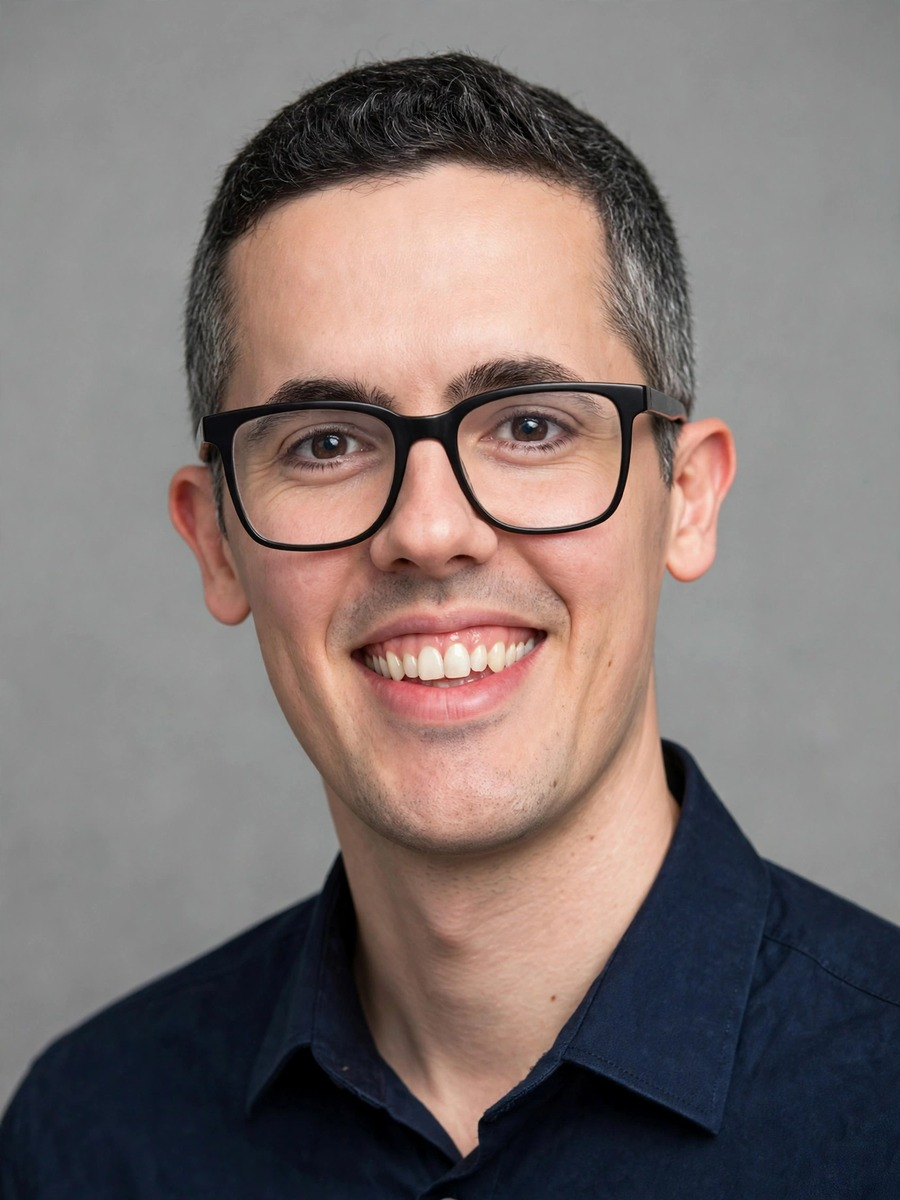
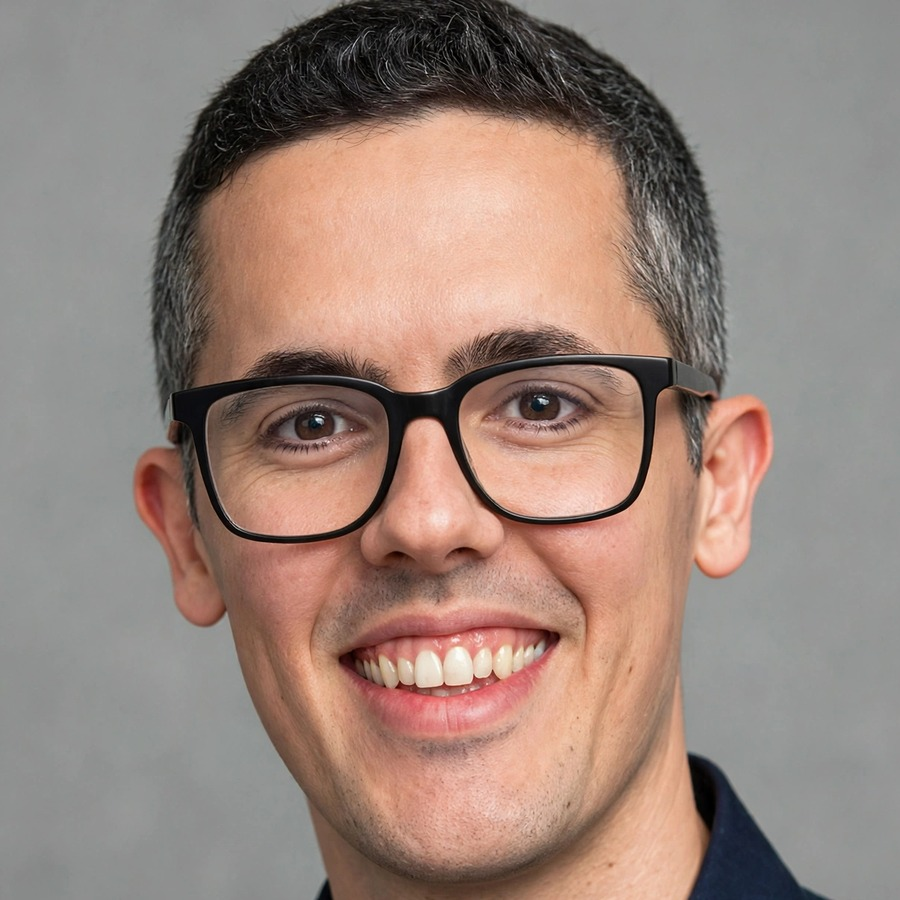
Hero: portrait top-right opposite h1 on mobile; tanned face-centered headshot
- Mobile hero now places the circular portrait top-right beside the
  eyebrow/h1, with description and CTA below (was: portrait under CTA)
- Desktop keeps the side-by-side layout via grid (fixed row-span bug)
- New headshot: subtle summer tan, salt-and-pepper sides, face-centered
  square crop with headroom (no more clipped hair or neck focus)
- OG share card regenerated with the new portrait

diff --git a/style.css b/style.css
@@ -22,7 +22,7 @@ section{scroll-margin-top:5rem}
 .hero-desc{font-size:.98rem;line-height:1.55;color:var(--text)}.hero-location{margin-top:.5rem;color:var(--muted);font-size:.92rem}
 .button-link{display:inline-flex;align-items:center;justify-content:center;min-height:44px;margin-top:1rem;padding:.65rem 1rem;border-radius:.45rem;background:var(--accent-strong);color:var(--on-accent);font-weight:750;box-shadow:0 3px 10px var(--shadow)}
 .button-link:hover{filter:brightness(1.08)}
-.hero-image-container{width:184px;height:184px;border-radius:50%;overflow:hidden;box-shadow:0 0 0 6px color-mix(in srgb,var(--accent) 30%,transparent);flex:0 0 auto}.hero-image{width:100%;height:100%;object-fit:cover}
+.hero-head{display:flex;align-items:center;justify-content:space-between;gap:1.25rem}.hero-image-container{width:128px;height:128px;border-radius:50%;overflow:hidden;box-shadow:0 0 0 6px color-mix(in srgb,var(--accent) 30%,transparent);flex:0 0 auto}.hero-image{width:100%;height:100%;object-fit:cover}
 .sections-wrapper{max-width:68rem;margin:auto;padding:0 1.25rem 5rem}.content-section{padding:4rem 0 1rem}.section-heading{font-size:clamp(1.85rem,7vw,2.65rem);line-height:1.16;color:var(--ink);letter-spacing:-.025em}.section-subtitle{margin:.35rem 0 1.6rem;color:var(--muted)}
 .about-text{display:grid;gap:1rem;max-width:56rem;font-size:1rem}
 .proof-panel{padding:1.5rem;border:1px solid var(--border);border-radius:1rem;background:var(--card);box-shadow:0 8px 28px var(--shadow)}.proof-panel>.section-heading{max-width:42rem;margin:.35rem 0 1.5rem}.proof-grid{display:grid;gap:1rem}.proof-item{padding-top:1rem;border-top:2px solid var(--accent)}.proof-item h3{color:var(--ink);font-size:1.08rem;margin-bottom:.75rem}.proof-item dl{display:grid;gap:.65rem}.proof-item dt{font-weight:800;color:var(--accent-strong);font-size:.75rem;text-transform:uppercase;letter-spacing:.06em}.proof-item dd{font-size:.9rem;line-height:1.5}.proof-closing{margin-top:1.5rem;padding-top:1rem;border-top:1px solid var(--border);font-weight:650;color:var(--ink)}
@@ -32,7 +32,7 @@ section{scroll-margin-top:5rem}
 .contact-section{margin-top:3rem;padding:2rem!important;border-radius:1rem;background:var(--ink);color:var(--bg)}.contact-section .section-heading,.contact-section .panel-kicker{color:var(--bg)}.contact-section>p:not(.panel-kicker){max-width:44rem;margin-top:.75rem}.contact-section .button-link{background:var(--bg);color:var(--ink)}
 .site-footer{padding:2rem 1.25rem;text-align:center;border-top:1px solid var(--border);color:var(--muted);font-size:.86rem}.site-footer a{color:var(--accent-strong);text-decoration:underline;text-underline-offset:3px}
 .scroll-top-btn{position:fixed;right:1rem;bottom:1rem;width:44px;height:44px;border:0;border-radius:.5rem;background:var(--accent-strong);color:var(--on-accent);display:grid;place-items:center;opacity:0;pointer-events:none;transform:translateY(1rem);transition:opacity .2s,transform .2s;box-shadow:0 4px 12px var(--shadow)}.scroll-top-btn.visible{opacity:1;pointer-events:auto;transform:none}
-@media(min-width:640px){.header-inner{padding-inline:2rem}.mobile-menu-btn{display:none}.desktop-nav{display:flex;gap:1.25rem;font-size:.84rem}.mobile-nav{display:none!important}.hero-section{padding:6rem 2rem}.hero-content{flex-direction:row;justify-content:space-between;gap:3rem}.hero-image-container{width:260px;height:260px;order:2}.sections-wrapper{padding-inline:2rem}.proof-panel{padding:2rem}.proof-grid,.capability-matrix{grid-template-columns:repeat(3,1fr)}.projects-grid{grid-template-columns:repeat(2,1fr)}.exp-header{align-items:center}.exp-identity{display:grid;grid-template-columns:1fr auto;column-gap:2rem;flex:1}.exp-identity h3,.exp-company-desc{grid-column:1}.exp-role{grid-column:1}.exp-date{grid-column:2;grid-row:1/4;align-self:center}.exp-bullets{margin-left:4.1rem}.contact-section{padding:2.5rem!important}}
+@media(min-width:640px){.header-inner{padding-inline:2rem}.mobile-menu-btn{display:none}.desktop-nav{display:flex;gap:1.25rem;font-size:.84rem}.mobile-nav{display:none!important}.hero-section{padding:6rem 2rem}.hero-copy{display:grid;grid-template-columns:minmax(0,38rem) auto;justify-content:space-between;column-gap:3rem;max-width:none}.hero-head{display:contents}.hero-image-container{width:260px;height:260px;grid-column:2;grid-row:1/span 4;align-self:center}.hero-copy .button-link{justify-self:start}.sections-wrapper{padding-inline:2rem}.proof-panel{padding:2rem}.proof-grid,.capability-matrix{grid-template-columns:repeat(3,1fr)}.projects-grid{grid-template-columns:repeat(2,1fr)}.exp-header{align-items:center}.exp-identity{display:grid;grid-template-columns:1fr auto;column-gap:2rem;flex:1}.exp-identity h3,.exp-company-desc{grid-column:1}.exp-role{grid-column:1}.exp-date{grid-column:2;grid-row:1/4;align-self:center}.exp-bullets{margin-left:4.1rem}.contact-section{padding:2.5rem!important}}
 @media(min-width:900px){.desktop-nav{gap:1.8rem;font-size:.9rem}.hero-image-container{width:320px;height:320px}}
 @media(prefers-reduced-motion:reduce){html{scroll-behavior:auto}*,*::before,*::after{animation-duration:.01ms!important;animation-iteration-count:1!important;transition-duration:.01ms!important}.project-card:hover{transform:none}}
 @media(hover:none){.project-card:hover{transform:none}}

diff --git a/index.html b/index.html
@@ -26,7 +26,7 @@
     <nav class="mobile-nav" id="mobile-nav" aria-label="Mobile navigation"><a href="#about">About</a><a href="#capability">AI capability</a><a href="#experience">Experience</a><a href="#projects">Builds</a><a href="#skills">Capabilities</a><a href="#contact">Contact</a></nav>
   </header>
   <main>
-    <section class="hero-section" aria-labelledby="hero-title"><div class="hero-content"><div class="hero-copy"><p class="hero-eyebrow">Sean Gartland</p><h1 id="hero-title">AI &amp; Data Leader</h1><p class="hero-desc">I lead teams that turn governed data into practical AI capabilities, including agent orchestration, natural-language querying over semantic layers, and trusted self-service analytics.</p><p class="hero-location">Based in San Francisco.</p><a class="button-link" href="https://www.linkedin.com/in/seangartland" target="_blank" rel="noopener noreferrer">Connect on LinkedIn</a></div><div class="hero-image-container"><img src="assets/headshot/irlpfp.jpg" alt="Sean Gartland" class="hero-image" width="443" height="450" fetchpriority="high" /></div></div></section>
+    <section class="hero-section" aria-labelledby="hero-title"><div class="hero-content"><div class="hero-copy"><div class="hero-head"><div class="hero-titles"><p class="hero-eyebrow">Sean Gartland</p><h1 id="hero-title">AI &amp; Data Leader</h1></div><div class="hero-image-container"><img src="assets/headshot/irlpfp.jpg" alt="Sean Gartland" class="hero-image" width="900" height="900" fetchpriority="high" /></div></div><p class="hero-desc">I lead teams that turn governed data into practical AI capabilities, including agent orchestration, natural-language querying over semantic layers, and trusted self-service analytics.</p><p class="hero-location">Based in San Francisco.</p><a class="button-link" href="https://www.linkedin.com/in/seangartland" target="_blank" rel="noopener noreferrer">Connect on LinkedIn</a></div></div></section>
     <div class="sections-wrapper">
       <section id="about" class="content-section"><h2 class="section-heading">About</h2><p class="section-subtitle">Executive range with hands-on depth</p><div class="about-text"><p>I work at the intersection of executive decision-making, data platform leadership, and hands-on product development. At Serena &amp; Lily, I lead Data Analytics and build AI capabilities around governed data. Earlier, I partnered with the CEO and executive team at Dolls Kill on company strategy while leading the data organization. At Williams-Sonoma, I led forecasting, planning, and omnichannel initiatives across major retail brands.</p><p>I also build software to stay close to the product and engineering decisions behind useful data experiences. Outside work, I run, hike, and plan national park trips.</p></div></section>
       <section id="capability" class="content-section proof-section"><div class="proof-panel"><p class="panel-kicker">Current focus</p><h2 class="section-heading">Building AI as an organizational capability</h2><div class="proof-grid">
